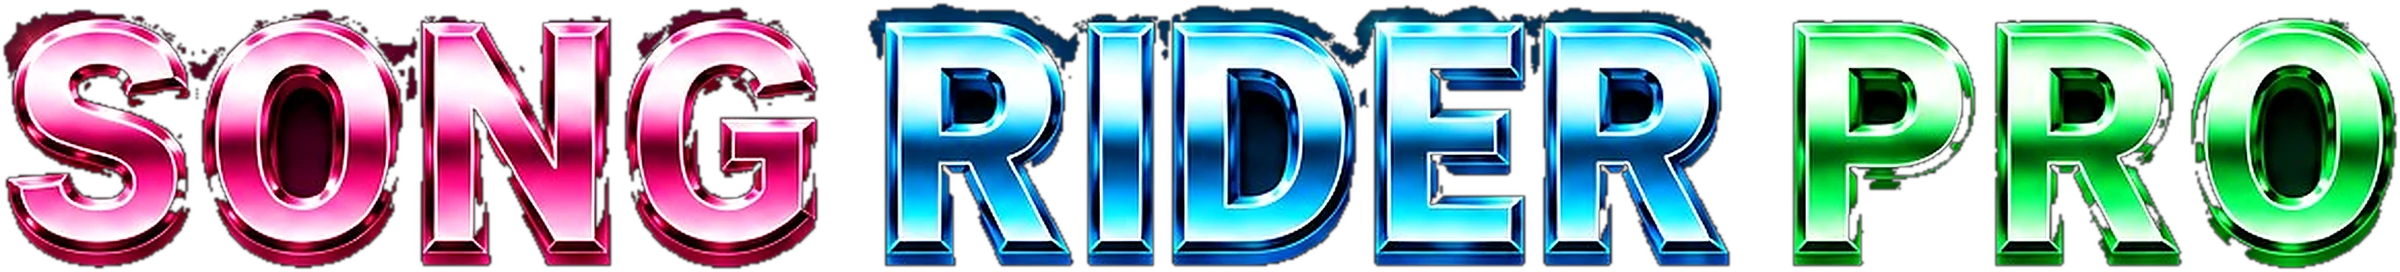
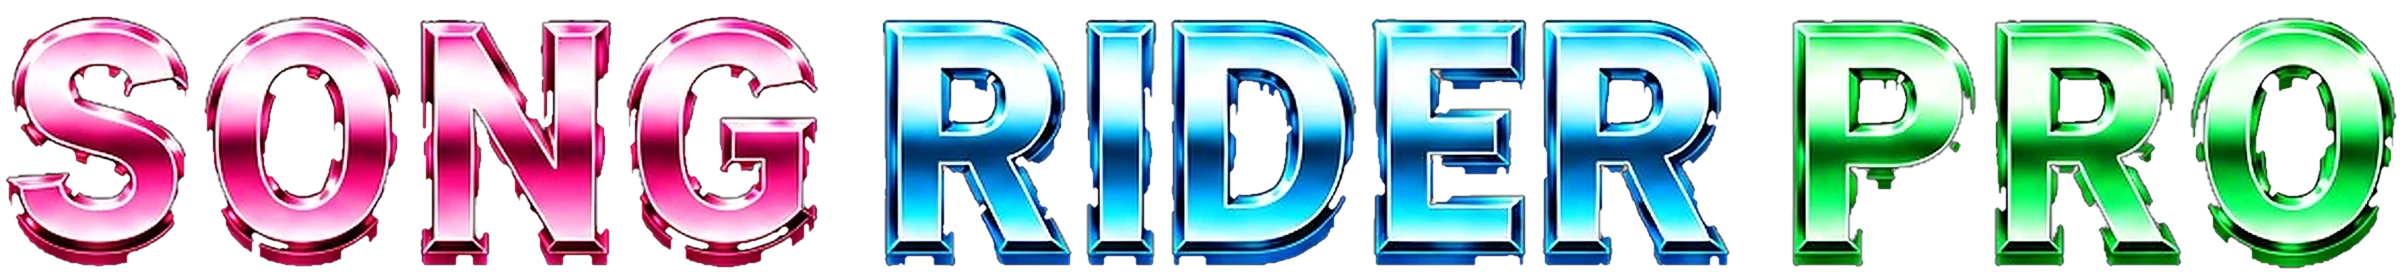
PC view: modules span the screen; clean SONG RIDER PRO title edges
- On screens wider than 600px, Chord Rider Pro, Baby DAW (main.app-shell) and
  Song Rider Pro (its header panel and main) use the full width with the same
  2.65vw side margins as the mode buttons and Track Master bar; they were
  capped at 1180px and centred. Phones unchanged.
- The SONG RIDER PRO wordmark was a cut-out whose alpha kept dark haze around
  the letters (ragged pink/blue smudges along the tops of SONG and RIDER, dark
  fill in the counters). Rebuilt its alpha from the letters themselves: the
  chrome body (inner reflection bands filled), a 2px edge, and the 3D depth
  grown down from each letter through letter-tinted pixels only; everything
  else is transparent, with an anti-aliased edge. 151 KB (was 161 KB).

Claude-Session: https://claude.ai/code/session_01QgEDcisSMabxQQvbFeHQHg

diff --git a/suite-compact.css b/suite-compact.css
@@ -77,3 +77,12 @@
   :root[data-skin][data-skin-choice] .workspace-mode-switch .workspace-mode-btn .srs-theme-mode-icon{display:none!important;}
   :root[data-skin][data-skin-choice] .workspace-mode-switch .workspace-mode-btn .mode-copy strong{font-size:.78rem!important;}
 }
+
+/* Desktop and tablet: Chord Rider Pro, Baby DAW and Song Rider Pro span the screen, lined up with the mode
+   buttons and the Track Master bar above them (the same 2.65vw side margins). They were capped at 1180px. */
+@media (min-width:601px){
+  main.app-shell,body footer{width:100%!important;max-width:none!important;padding-left:2.65vw!important;padding-right:2.65vw!important;box-sizing:border-box!important;}
+  .song-rider-workspace{max-width:none!important;padding-left:2.65vw!important;padding-right:2.65vw!important;}
+  html.crp-integrated body>header{padding-left:2.65vw!important;padding-right:2.65vw!important;box-sizing:border-box!important;}
+  html.crp-integrated main{width:100%!important;max-width:none!important;padding-left:2.65vw!important;padding-right:2.65vw!important;box-sizing:border-box!important;}
+}

diff --git a/song-rider/index.html b/song-rider/index.html
@@ -3360,7 +3360,7 @@ html .fullSectionActions button.fullLyricsMic:focus-visible{outline:2px solid #e
 </style>
 <!-- Shared compact phone header (owned by the CRP side). Keep this the LAST stylesheet. -->
 <link rel="stylesheet" href="../suite-brand.css?v=3.4.1">
-<link rel="stylesheet" href="../suite-compact.css?v=3.4.1">
+<link rel="stylesheet" href="../suite-compact.css?v=3.5.0">
 </head>
 
 <body>
@@ -3404,7 +3404,7 @@ html .fullSectionActions button.fullLyricsMic:focus-visible{outline:2px solid #e
       <div class="panelTop">
         <div style="display:flex; align-items:center; gap:10px;">
           <div class="left" aria-label="Song Rider Pro">
-            <img class="srp-exact-wordmark" src="./song-rider-pro-wordmark-hq.webp?v=3.3.12" alt="Song Rider Pro">
+            <img class="srp-exact-wordmark" src="./song-rider-pro-wordmark-hq.webp?v=3.5.0" alt="Song Rider Pro">
           </div>
         </div>
 

diff --git a/skins.js b/skins.js
@@ -73,7 +73,7 @@
   // used to swap in a wordmark with a red PRO.) Restores the original image if an older version swapped it.
   function updateSkinAssets(){
     document.querySelectorAll('.srp-exact-wordmark').forEach(img=>{
-      const original=img.dataset.srsOriginalSrc||img.getAttribute('src')||'./song-rider-pro-wordmark-hq.webp?v=3.3.12';
+      const original=img.dataset.srsOriginalSrc||img.getAttribute('src')||'./song-rider-pro-wordmark-hq.webp?v=3.5.0';
       if(img.getAttribute('src')!==original)img.setAttribute('src',original);
     });
   }

diff --git a/index.html b/index.html
@@ -51,7 +51,7 @@
   </style>
   <link rel="stylesheet" href="skins.css?v=3.4.1" />
   <link rel="stylesheet" href="suite-brand.css?v=3.4.1" />
-  <link rel="stylesheet" href="suite-compact.css?v=3.4.1" />
+  <link rel="stylesheet" href="suite-compact.css?v=3.5.0" />
 </head>
 <body>
 <div id="srsBoot" aria-hidden="true"><img src="assets/brand/song-rider-suite-logo-512.webp?v=3.4.1" alt=""></div>

diff --git a/service-worker.js b/service-worker.js
@@ -1,4 +1,4 @@
-const CACHE = 'song-rider-suite-v3.4.17';
+const CACHE = 'song-rider-suite-v3.4.18';
 // Recorded instrument audio (assets/instruments/<id>/*.mp3) never changes under the same name, so it lives in
 // its own cache that survives app updates and is served from there first. Bump this to drop the old audio.
 const INSTRUMENT_CACHE = 'srs-instruments-v2';

diff --git a/CHANGELOG.md b/CHANGELOG.md
@@ -9,6 +9,10 @@
   media controls.
 - **Gold module icons** on the Chord Rider, Baby DAW and Song Rider buttons in every skin.
 - All the old skull art is gone (stickers, icons, Baby DAW button art, skeleton horses).
+- On computers and tablets, Chord Rider Pro, Baby DAW and Song Rider Pro span the screen, lined up with
+  the mode buttons and Track Master bar (they were a narrow 1180 px column).
+- The SONG RIDER PRO title has clean letter edges like CHORD RIDER PRO's (the leftover haze from its
+  cut-out is gone), and its PRO is green in every skin.
 - On phones the Song Rider Suite banner spans the whole top line, and the Chord Rider Pro / Song
   Rider Pro titles fill their row up to the Hide button.
 
